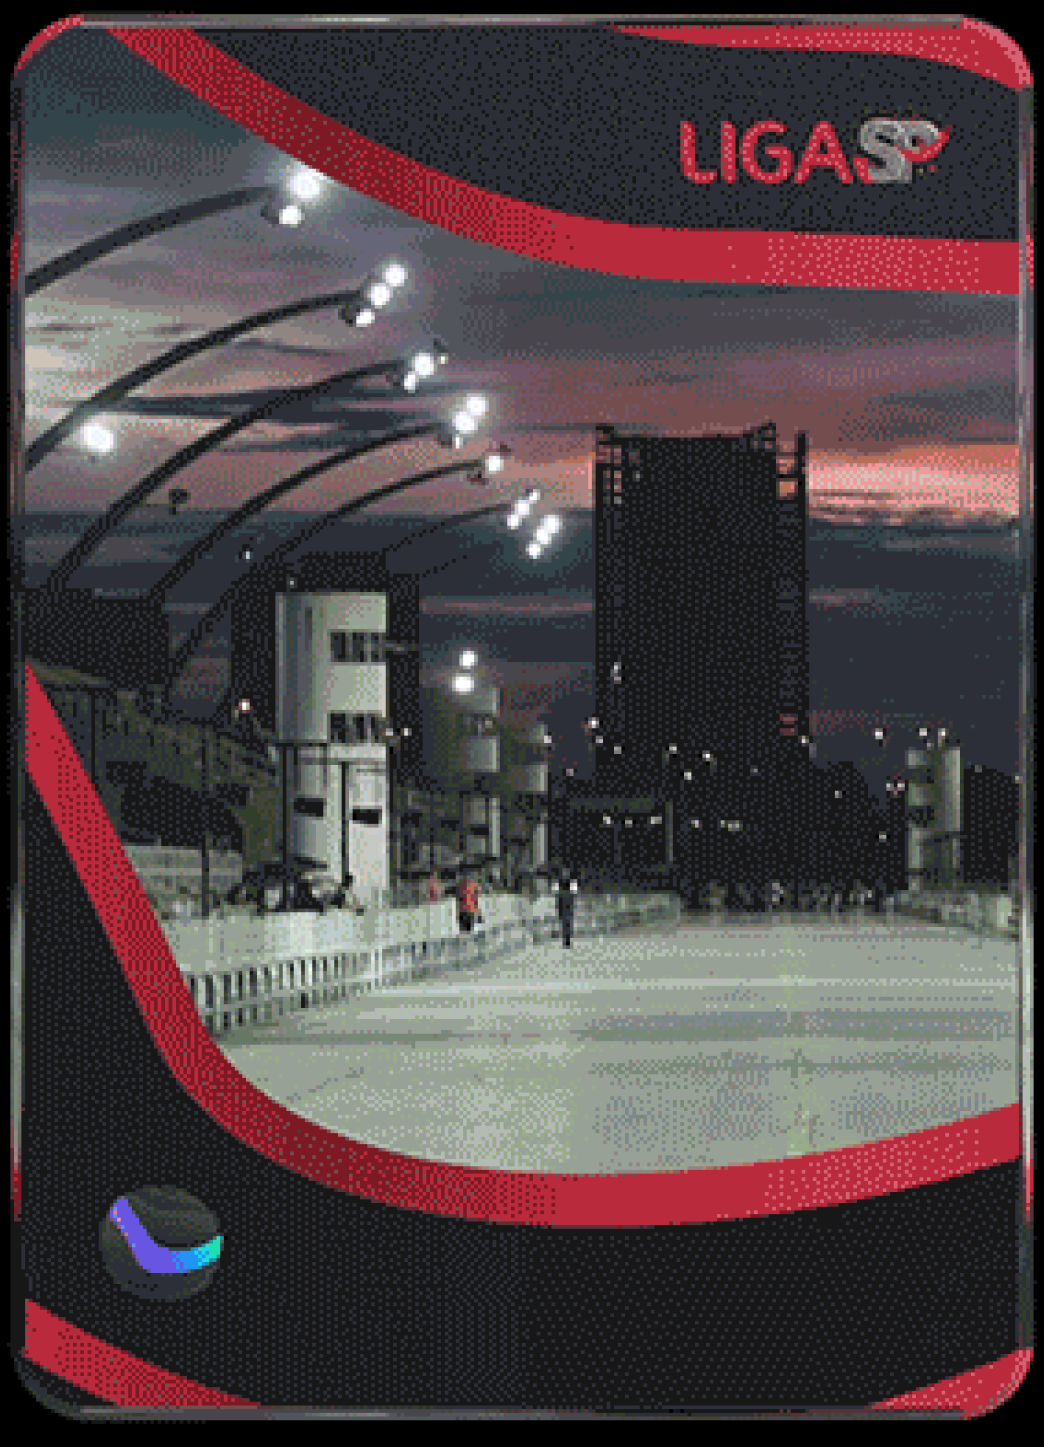
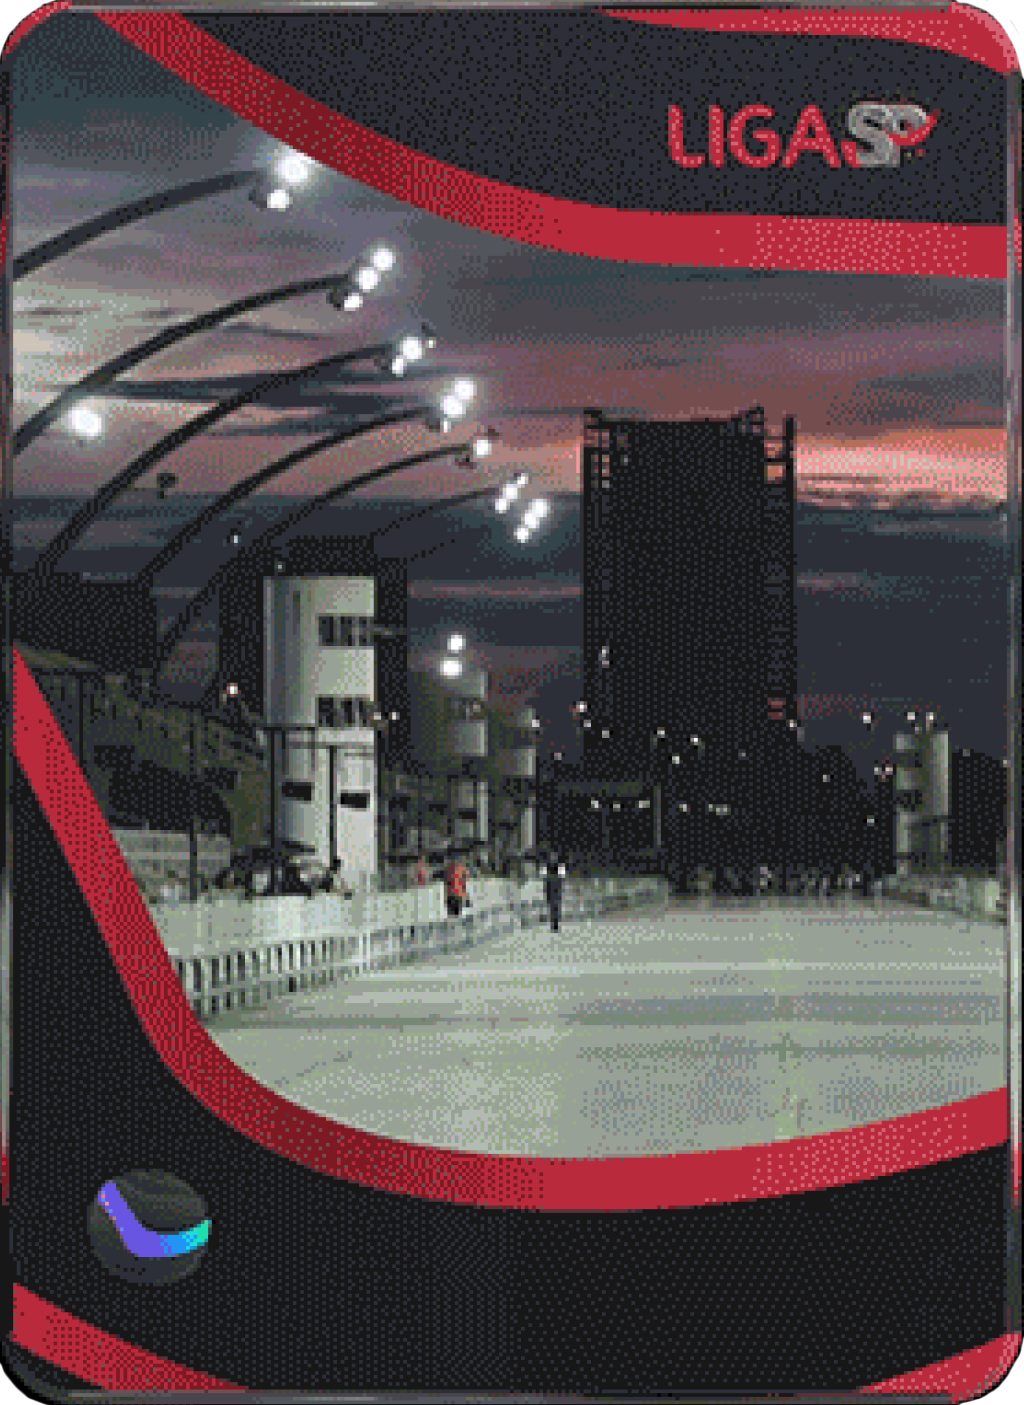
Alteração rodape

diff --git a/colecionaveis.html b/colecionaveis.html
@@ -26,49 +26,98 @@
              <button class="btn-Search"></button>
              <p class="text-center">Colecionáveis</p>
           </div>
-          <div class="NFT gap-4 mt-5">
+          <div class="NftGrid gap-4 mt-5 mb-5 pb-5">
+
             <!-- Item 1 -->
-            <div class="cardNFT w-100 p-3 rounded" style="background-image: url('./images/colecionaveis.png');">
-                <h1 class="text-white">
-                    <p>Carnaval #euvou</p>
-                    <p>LIGA SP</p>
-                </h1>
+            <div class="cardNFT w-100" style="">
+                <!-- img -->
+                <div class="col-8 mx-auto mt-4">
+                    <img class="img-fluid" src="./images/modal_nft.png" alt="">
+                </div>
+                <!-- Footer -->
+                <div class="NFTfooter w-100" style="background-image: url('./images/NFT_Footer_style1.png');">
+                    <!-- Content -->
+                    <div class="content">
+                        <h1 class="text-white w-100 px-3">
+                            <p>Carnaval Carnaval Carnaval #euvou</p>
+                            <p>LIGA SP</p>
+                        </h1>
+                    </div>
+                </div>
             </div>
-            <!-- Item 2 -->
-            <div class="cardNFT w-100 p-3 rounded" style="background-image: url('./images/colecionaveis.png');">
-                <h1 class="text-white">
-                    <p>Carnaval #euvou</p>
-                    <p>LIGA SP</p>
-                </h1>
+
+           <!-- Item 2 -->
+           <div class="cardNFT w-100" style="">
+            <!-- img -->
+            <div class="col-8 mx-auto mt-4">
+                <img class="img-fluid" src="./images/modal_nft.png" alt="">
             </div>
+            <!-- Footer -->
+            <div class="NFTfooter w-100" style="background-image: url('./images/NFT_Footer_style2.png');">
+                <!-- Content -->
+                <div class="content">
+                    <h1 class="text-white w-100 px-3">
+                        <p>Carnaval Carnaval Carnaval #euvou</p>
+                        <p>LIGA SP</p>
+                    </h1>
+                </div>
+            </div>
+            </div>
+
             <!-- Item 3 -->
-            <div class="cardNFT w-100 p-3 rounded" style="background-image: url('./images/colecionaveis.png');">
-                <h1 class="text-white">
-                    <p>Carnaval #euvou</p>
-                    <p>LIGA SP</p>
-                </h1>
+            <div class="cardNFT w-100" style="">
+                <!-- img -->
+                <div class="col-8 mx-auto mt-4">
+                    <img class="img-fluid" src="./images/modal_nft.png" alt="">
+                </div>
+                <!-- Footer -->
+                <div class="NFTfooter w-100" style="background-image: url('./images/NFT_Footer_style3.png');">
+                    <!-- Content -->
+                    <div class="content">
+                        <h1 class="text-white w-100 px-3">
+                            <p>Carnaval Carnaval Carnaval #euvou</p>
+                            <p>LIGA SP</p>
+                        </h1>
+                    </div>
+                </div>
             </div>
+
             <!-- Item 4 -->
-            <div class="cardNFT w-100 p-3 rounded" style="background-image: url('./images/colecionaveis.png');">
-                <h1 class="text-white">
-                    <p>Carnaval #euvou</p>
-                    <p>LIGA SP</p>
-                </h1>
+            <div class="cardNFT w-100" style="">
+                <!-- img -->
+                <div class="col-8 mx-auto mt-4">
+                    <img class="img-fluid" src="./images/modal_nft.png" alt="">
+                </div>
+                <!-- Footer -->
+                <div class="NFTfooter w-100" style="background-image: url('./images/NFT_Footer_style4.png');">
+                    <!-- Content -->
+                    <div class="content">
+                        <h1 class="text-white w-100 px-3">
+                            <p>Carnaval Carnaval Carnaval #euvou</p>
+                            <p>LIGA SP</p>
+                        </h1>
+                    </div>
+                </div>
             </div>
+
             <!-- Item 5 -->
-            <div class="cardNFT w-100 p-3 rounded" style="background-image: url('./images/colecionaveis.png');">
-                <h1 class="text-white">
-                    <p>Carnaval #euvou</p>
-                    <p>LIGA SP</p>
-                </h1>
+            <div class="cardNFT w-100" style="">
+                <!-- img -->
+                <div class="col-8 mx-auto mt-4">
+                    <img class="img-fluid" src="./images/modal_nft.png" alt="">
+                </div>
+                <!-- Footer -->
+                <div class="NFTfooter w-100" style="background-image: url('./images/NFT_Footer_style5.png');">
+                    <!-- Content -->
+                    <div class="content">
+                        <h1 class="text-white w-100 px-3">
+                            <p>Carnaval Carnaval Carnaval #euvou</p>
+                            <p>LIGA SP</p>
+                        </h1>
+                    </div>
+                </div>
             </div>
-            <!-- Item 6 -->
-            <div class="cardNFT w-100 p-3 rounded" style="background-image: url('./images/colecionaveis.png');">
-                <h1 class="text-white">
-                    <p>Carnaval #euvou</p>
-                    <p>LIGA SP</p>
-                </h1>
-            </div>
+
         </div>
         <div class="col mt-2 pb-2">
             <button  class="btn btn-gradiente-life w-100 mt-3">comprar mais cards</button>

diff --git a/css/all-style.css b/css/all-style.css
@@ -2,7 +2,7 @@ body{
     font-family :'Artegra Sans', Arial, Helvetica, sans-serif!important;
     background-color: var(--cor-cinza-escuro);
     color: var(--cor-cinza);
-    overflow-y: hidden;
+    overflow-x: hidden;
 }
 :root {
     --cor-violeta: #9E65EF;
@@ -284,19 +284,6 @@ input[type="radio"]:checked::before {
     width: 90%;
     text-align: center;
 }
-
-
-
-
-
-
-
-
-
-
-
-
-
 
 /* Style the tab content */
 .tabcontent {
@@ -2313,36 +2300,87 @@ a.vertodos {
 .dashboard.recompensadetalhe #OndeQuandoTabs button#tab-2.active:after {
     background-color: var(--cor-verde);
 }
+
+
+
+
+
+
+
+
+
+
+
+
+
+
+
+
 /* Colecionáveis */
 .colecionaveis {
     position: relative;
 }
-.NFT {
+
+.NftGrid {
     display: grid;
     grid-template-columns: 1fr 1fr;
 }
 
-.colecionaveis .cardNFT {
-    min-height: 239px;
-    background-position: top center;
-    background-repeat: no-repeat;
-    background-size: cover;
-    position: relative;
+.cardNFT {
+    border-radius: 8px;
+    overflow: hidden;
+    background-color: var(--cor-preto);
 }
 
-.colecionaveis .cardNFT h1 {
+.NFTfooter {
+    background-repeat: no-repeat;
+    background-size: cover;
+    background-position: center;
+    height: 122px;
+    position: relative;
+    margin-top: -26px;
+}
+
+.NFTfooter .content  {
+    position: absolute;
+    bottom: 4px;
+}
+
+.NFTfooter h1 {
     font-style: normal;
     font-weight: 700;
     font-size: 12px;
     line-height: 13px;
     letter-spacing: -0.005em;
-    position: absolute;
-    bottom: 0;
+    left: 15px;
 }
 
-.colecionaveis .cardNFT h1 p {
+.NFTfooter p {
     margin: 0;
+    display: -webkit-box;
+-webkit-line-clamp: 1;
+-webkit-box-orient: vertical;
+overflow: hidden;
 }
+
+
+
+
+
+
+
+
+
+
+
+
+
+
+
+
+
+
+
 
 /* MEDIA QUERY */
 @media only screen and (max-width: 768px) {
